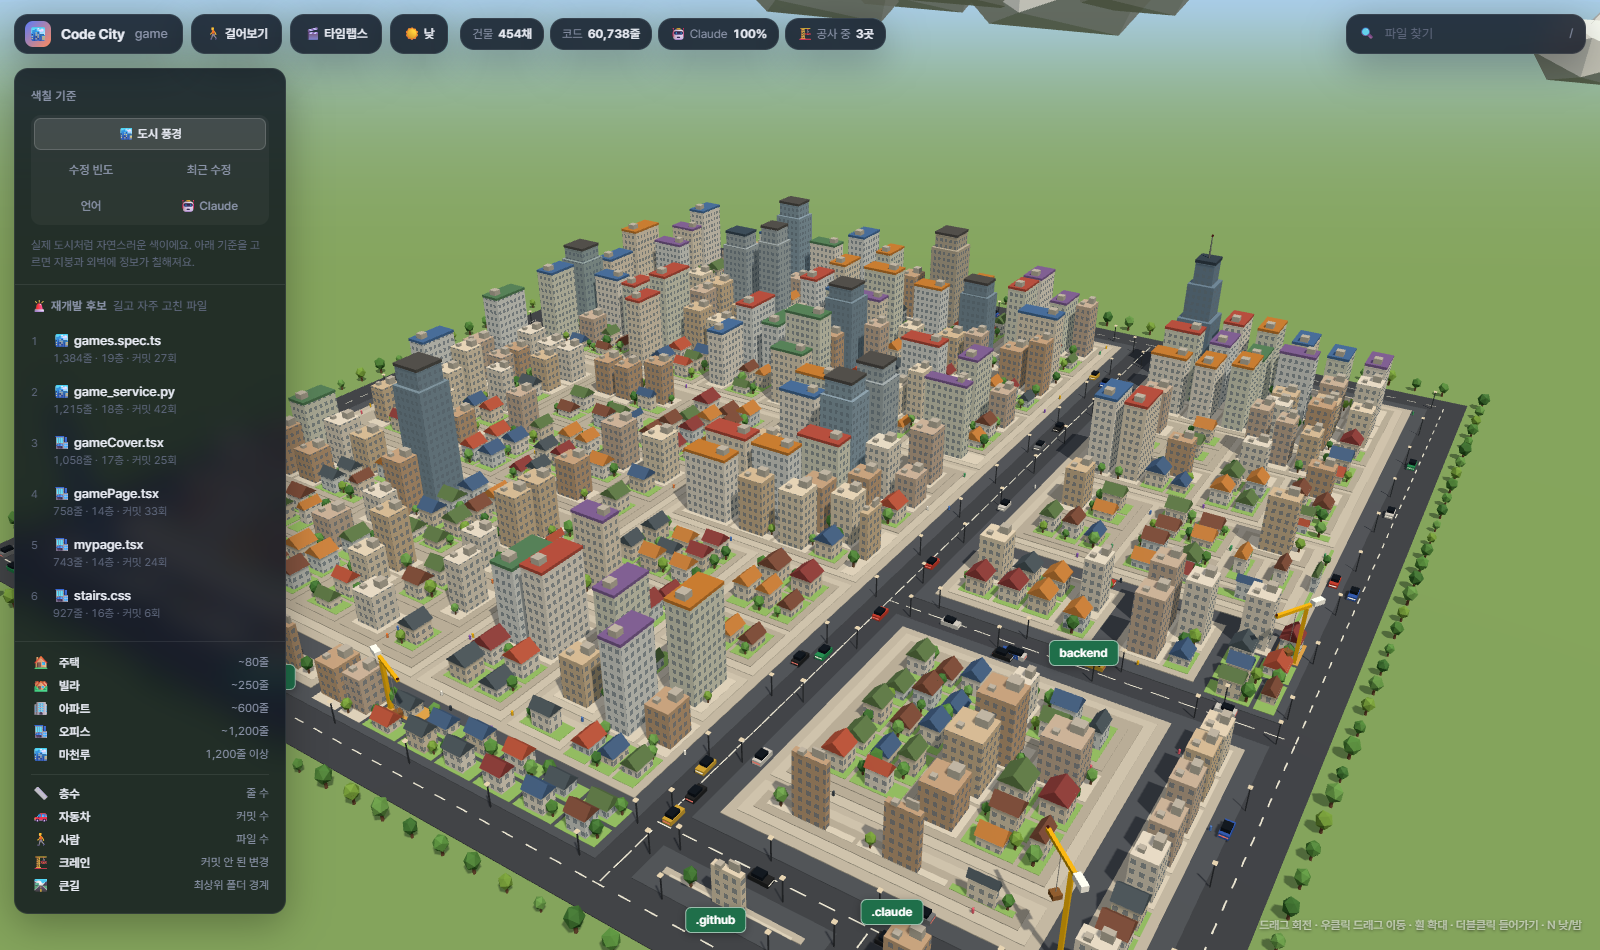
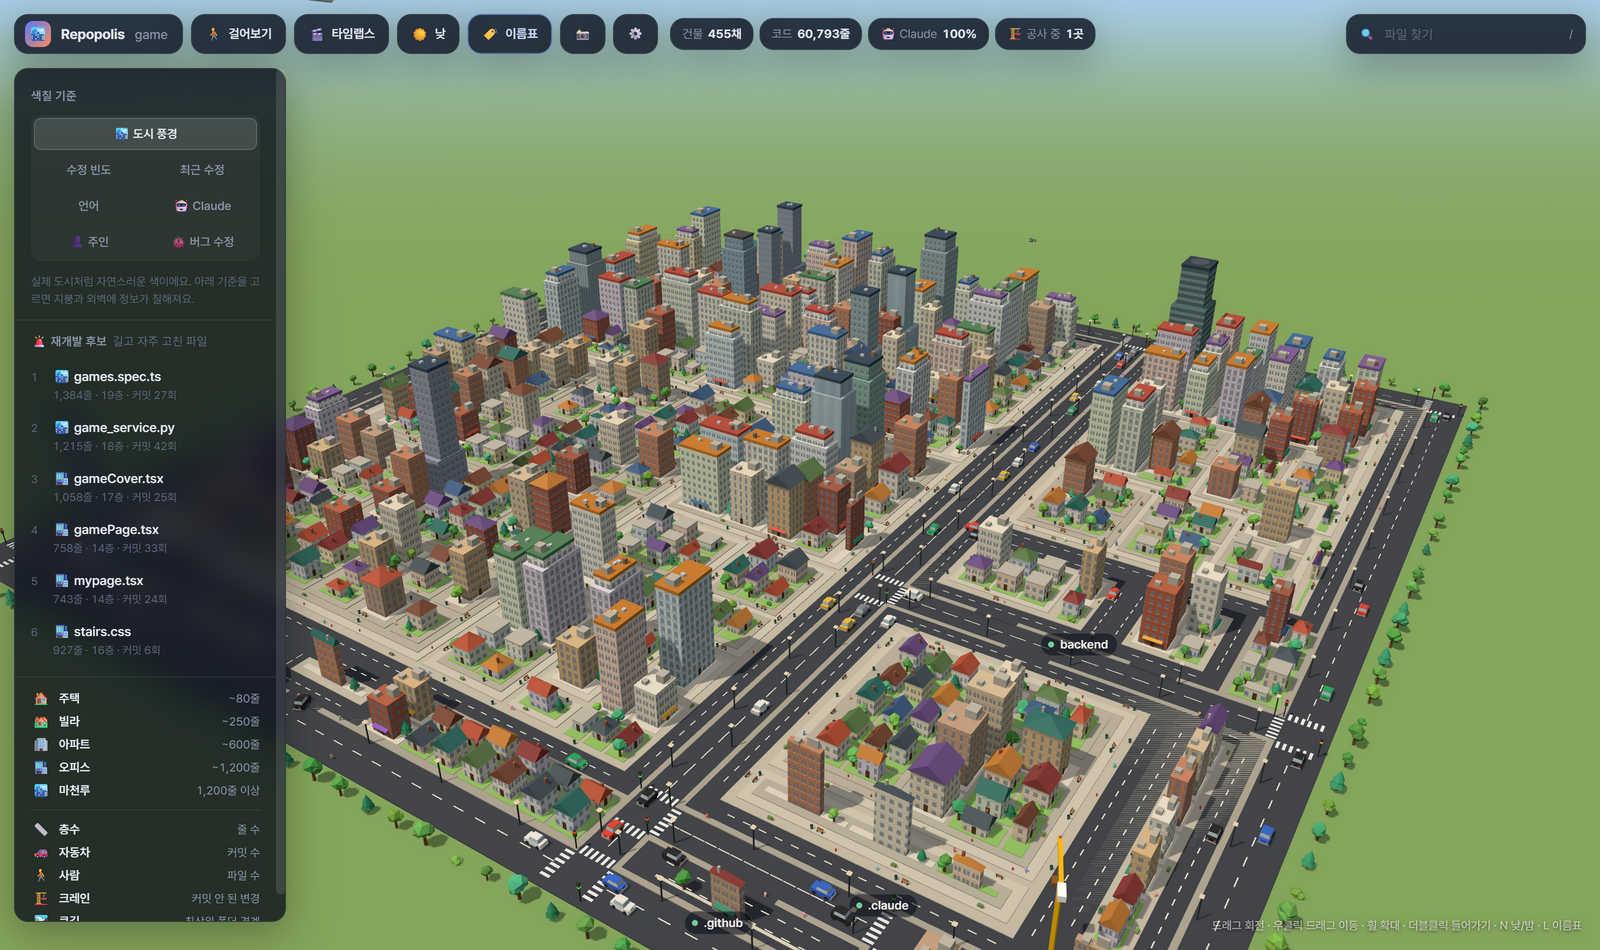
Repopolis 1.1.0 — README · 스크린샷 새로, 맥 Dock 다시 열기, 버전 1.1.0
[Repopolis 1.1.0 — 새 캐릭터 · 놀거리 · 트레이 공사 현황 · 소리]
- README: 기능 표 정리(놀거리 · 실시간 반영 시점 · 트레이 · 설정), 조작 · 설치 · 구조 갱신, 스크린샷 새로 (트레이 팝업 추가)
- 맥: 창을 닫은 뒤 Dock 아이콘을 누르면 다시 연다
- 버전 1.1.0

[README: 기능 · 조작 표를 목록으로 (좁은 첫 칸에서 이름이 글자 단위로 줄바꿈되던 것)]

diff --git a/app/main.js b/app/main.js
@@ -372,6 +372,7 @@ handle('notify-set', (_, on) => setNotify(on));
 // ───────── 창 ─────────
 if (!app.requestSingleInstanceLock()) app.quit();
 app.on('second-instance', showMain);
+app.on('activate', showMain); // 맥: 창을 닫은 뒤 Dock 아이콘을 누르면 다시
 app.on('before-quit', () => { app.isQuitting = true; });
 if (process.platform === 'win32') app.setAppUserModelId('com.repopolis.app');
 
